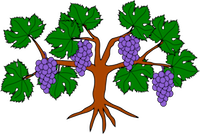
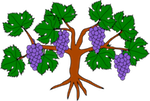
tree posns moved and tut message tweaked

diff --git a/src/scripts/scenes/flyoverScene.ts b/src/scripts/scenes/flyoverScene.ts
@@ -81,7 +81,7 @@ export default class flyoverScene extends Phaser.Scene {
       this.deadGrapeVine = this.add.image(260,230, "deadGrapeVine");
       this.grapeVineCheckMark = this.add.image(290,335, "checkMark");
     } else{
-      this.grapeVine = this.add.image(260,285, "grapeVine");
+      this.grapeVine = this.add.image(255,290, "grapeVine");
       this.grapeVine.name = "grapeVine";
       this.hosts.add(this.grapeVine);
     }
@@ -89,7 +89,7 @@ export default class flyoverScene extends Phaser.Scene {
       this.deadTreeOfHeaven = this.add.image(285,570,"deadTreeOfHeaven");
       this.treeOfHeavenCheckMark = this.add.image(325,580, "checkMark");
     } else{
-      this.treeOfHeaven = this.add.sprite(285, 570, "treeOfHeaven");
+      this.treeOfHeaven = this.add.sprite(285, 580, "treeOfHeaven");
       this.treeOfHeaven.play("treeOfHeaven");
       this.treeOfHeaven.name = "treeOfHeaven";
       this.hosts.add(this.treeOfHeaven);

diff --git a/src/scripts/scenes/bugrunTutorialScene.ts b/src/scripts/scenes/bugrunTutorialScene.ts
@@ -118,7 +118,7 @@ export default class bugrunTutorialScene extends Phaser.Scene {
     this.spacebar = this.input.keyboard.addKey(Phaser.Input.Keyboard.KeyCodes.SPACE);
 
     // Initial popup
-    this.createMessageBox("Hey, kid.\nThe gang really likes this host that you picked out.\nNow let\'s have some fun here, shall we?\nNow that you're on the tree, it's time to EAT!\n\n Our goal here is simple:\nTake over this tree with as MANY flies as possible.");
+    this.createMessageBox("Hey, kid.\nThe gang really likes this host that you picked out.\nLet\'s have some fun here, shall we?\nNow that you're on the tree, it's time to EAT!\n\n Our goal here is simple:\nTake over this tree with as MANY flies as possible.");
 
 
 
